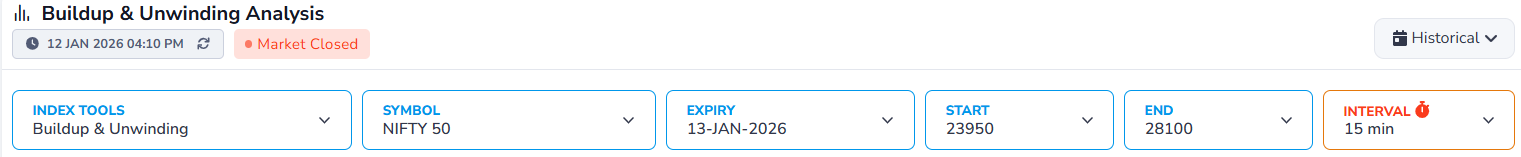
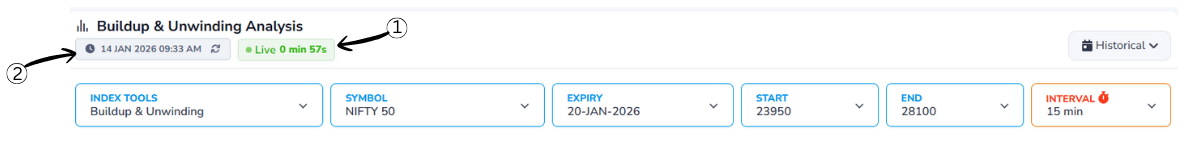
image completed

diff --git a/BuildupUnwinding/buildup_unwinding.html b/BuildupUnwinding/buildup_unwinding.html
@@ -14,11 +14,19 @@
     <div class="container my-5 p-4 border rounded shadow-sm">
         <h4 class="pb-2 border-bottom">Header</h4>
         <div class="text-center my-4">
-            <img src="assets/header.png" class="img-fluid img-thumbnail" alt="error loading image">
+            <img src="assets/header3.png" class="img-fluid img-thumbnail" alt="error loading image">
         </div>
         <h4 class="pb-2 border-bottom">Historical Data</h4>
          <div class="text-center my-4">
             <img src="assets/historical.gif" class="img-fluid img-thumbnail" alt="error loading image">
+        </div>
+          <h4 class="pb-2 border-bottom">Header1</h4>
+        <div class="text-center my-4">
+            <img src="assets/header1.png" class="img-fluid img-thumbnail" alt="error loading image">
+        </div>
+          <h4 class="pb-2 border-bottom">Header2</h4>
+        <div class="text-center my-4">
+            <img src="assets/header2.png" class="img-fluid img-thumbnail" alt="error loading image">
         </div>
     </div>
     <div class="container my-5 p-4 border rounded shadow-sm">
@@ -35,10 +43,25 @@
         </div>
     </div>
      <div class="container my-5 p-4 border rounded shadow-sm">
-        <h4 class="pb-2">Column</h4>
+        <h4 class="pb-2">Column/Download</h4>
         <div class="text-center my-4">
             <img src="assets/colom.png" class="img-fluid img-thumbnail" alt="error loading image">
         </div>
+     </div>
+     <div class="container my-5 p-4 border rounded shadow-sm">
+        <h4 class="pb-2">Column-1</h4>
+        <div class="text-center my-4">
+            <img src="assets/colom1.png" class="img-fluid img-thumbnail" alt="error loading image">
+        </div>
+        <h4 class="pb-2">Column-2</h4>
+        <div class="text-center my-4">
+            <img src="assets/colom2.png" class="img-fluid img-thumbnail" alt="error loading image">
+        </div>
+         <h4 class="pb-2">Column-3</h4>
+        <div class="text-center my-4">
+            <img src="assets/colom3.png" class="img-fluid img-thumbnail" alt="error loading image">
+        </div>
+
      </div>
 
 
